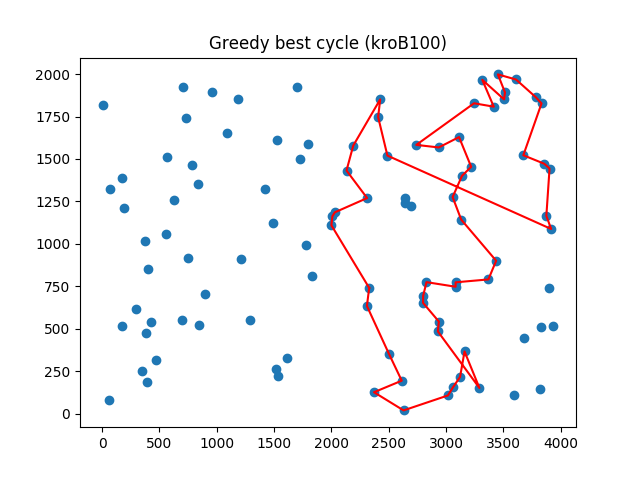
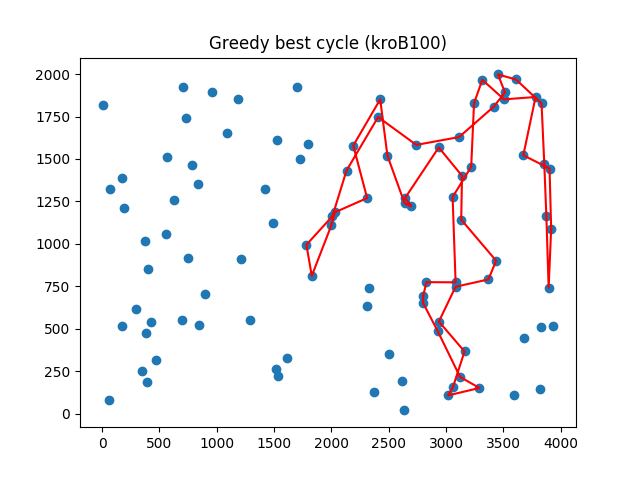
Fixed greedy

diff --git a/aem/heuristics/greedy.py b/aem/heuristics/greedy.py
@@ -12,16 +12,35 @@ class Greedy(Heuristic):
         while len(cycle) < 50:
             # for each vertex find two visited that are closest and compute cost
             min_cost = float('inf')
-            min_cost_vertex_idx = None
+            min_cost_vertex = None
+            min_insertion_position = None
             for i in range(self.graph.no_of_vertices()):
                 if i not in cycle:
                     first_closest = self.graph.get_closest_visited_idx(from_vertex=i, visited=cycle)
-                    tmp_cycle = [i for i in cycle if i != first_closest]
-                    second_closest = self.graph.get_closest_visited_idx(from_vertex=i, visited=tmp_cycle)
-
-                    insertion_cost = self.graph.cost(first_closest, i) + self.graph.cost(second_closest, i)
-                    if insertion_cost < min_cost:
-                        min_cost = insertion_cost
-                        min_cost_vertex_idx = i
-            cycle.append(min_cost_vertex_idx)
+                    cost, insertion_position = self.establish_insertion_cost(cycle, first_closest, i)
+                    if cost < min_cost:
+                        min_cost = cost
+                        min_cost_vertex = i
+                        min_insertion_position = insertion_position
+            cycle.insert(min_insertion_position, min_cost_vertex)
         return cycle
+
+    def establish_insertion_cost(self, cycle, first_closest, i):
+        """We can insert it either on left or right side -> calculate costs"""
+        left_idx = cycle.index(first_closest) - 1
+        right_idx = cycle.index(first_closest) + 1
+        left, right = None, None
+        cost_left, cost_right = float("inf"), float("inf")
+        if 0 <= left_idx < len(cycle):
+            left = cycle[left_idx]
+            cost_left = self.graph.cost(first_closest, i) + self.graph.cost(i, left)
+        if 0 <= right_idx < len(cycle):
+            right = cycle[right_idx]
+            cost_right = self.graph.cost(first_closest, i) + self.graph.cost(i, right)
+        if cost_left < cost_right:
+            cost = cost_left
+            insertion_position = max(left_idx, cycle.index(first_closest))
+        else:
+            cost = cost_right
+            insertion_position = max(right_idx, cycle.index(first_closest))
+        return cost, insertion_position

diff --git a/main.py b/main.py
@@ -12,7 +12,7 @@ instances = [
 for instance in instances:
     print(f"Working on {instance}")
     graph, coords = TSPReader().read_graph_with_coords(instance)
-    methods = [NearestNeighbor(graph), Greedy(graph), KRegret(graph)]
+    methods = [NearestNeighbor(graph), Greedy(graph)]  # KRegret(graph)
     for method in methods:
         result = method.run()
         result.print()
